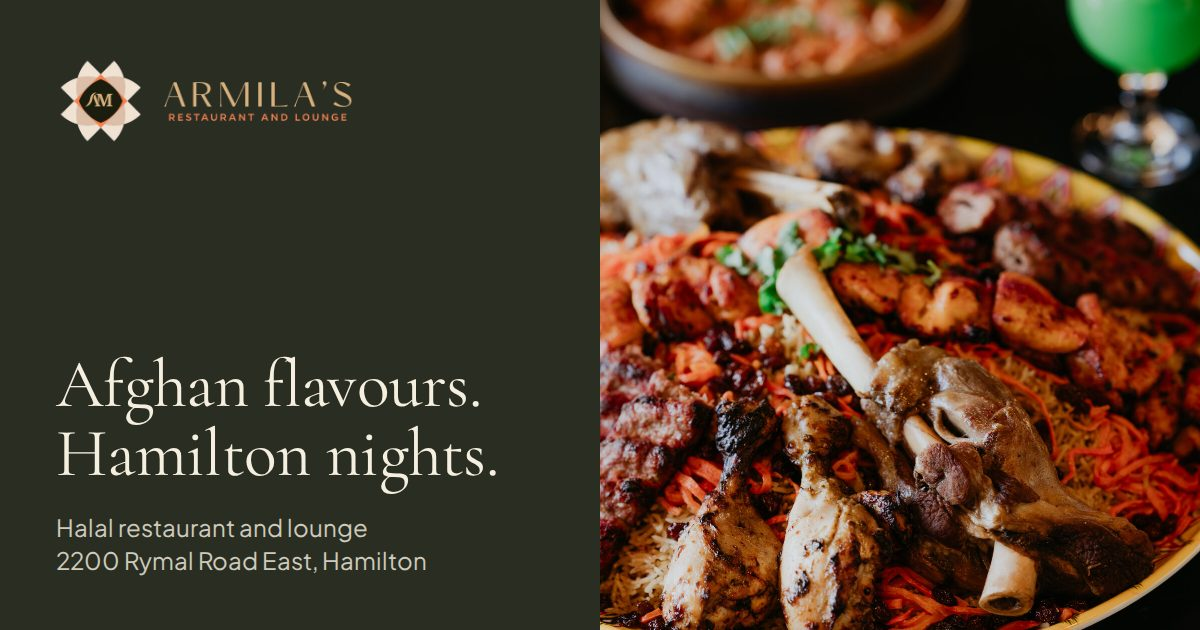
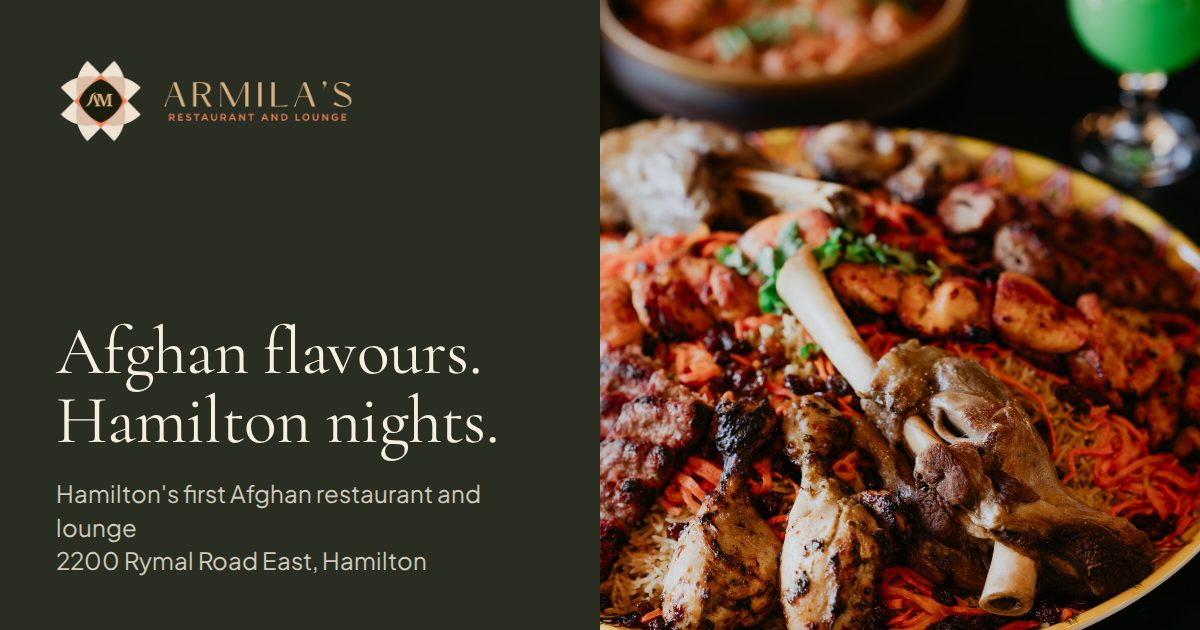
Add files via upload

Changed region(s): [[0.0308, 0.5127, 0.4008, 0.8746]]

diff --git a/assets/js/site.js b/assets/js/site.js
@@ -151,15 +151,20 @@ var GA_MEASUREMENT_ID = '';
         .then(function (r) { return r.json().catch(function () { return {}; }).then(function (body) { return { ok: r.ok, body: body }; }); })
         .then(function (res) {
           var success = res.ok && res.body.success !== false && res.body.success !== 'false';
+          if (!success && /activat/i.test(res.body.message || '')) throw new Error('needs activation');
           if (!success) throw new Error('send failed');
           form.reset();
           statusBox.className = 'form-status ok';
           statusBox.textContent = 'Inquiry sent. We will reply by email or phone.';
           window.track('generate_lead', { form: 'catering_inquiry' });
         })
-        .catch(function () {
+        .catch(function (err) {
           statusBox.className = 'form-status err';
-          statusBox.innerHTML = 'Your inquiry did not send. Check your connection and try again, or call <a href="tel:+12896749692">(289) 674-9692</a>.';
+          if (err && err.message === 'needs activation') {
+            statusBox.innerHTML = 'Your inquiry did not send because this form is waiting to be activated. Please call <a href="tel:+12896749692">(289) 674-9692</a> for now.';
+          } else {
+            statusBox.innerHTML = 'Your inquiry did not send. Check your connection and try again, or call <a href="tel:+12896749692">(289) 674-9692</a>.';
+          }
         })
         .then(function () {
           button.removeAttribute('aria-busy');

diff --git a/assets/css/site.css b/assets/css/site.css
@@ -329,3 +329,9 @@ blockquote footer { font-family: var(--sans); font-size: 0.875rem; margin-top: 6
 @media (max-width: 699px) { .page-head .btn-row .btn, .notfound .btn-row .btn { flex: 1 1 100%; } }
 a[href^="tel:"] { white-space: nowrap; }
 .notfound { padding-top: 64px; padding-bottom: 64px; }
+
+/* Reviews line and seasonal offer */
+.reviews { display: flex; align-items: center; gap: 10px; font-size: 0.9375rem; color: rgba(245, 239, 224, 0.86); }
+.stars { display: inline-flex; gap: 2px; color: var(--saffron-200); }
+.stars svg { width: 16px; height: 16px; }
+.offer { border-left: 3px solid var(--saffron); background: rgba(200, 147, 47, 0.14); padding: 10px 14px; font-weight: 600; color: var(--olive-900); max-width: 62ch; }
